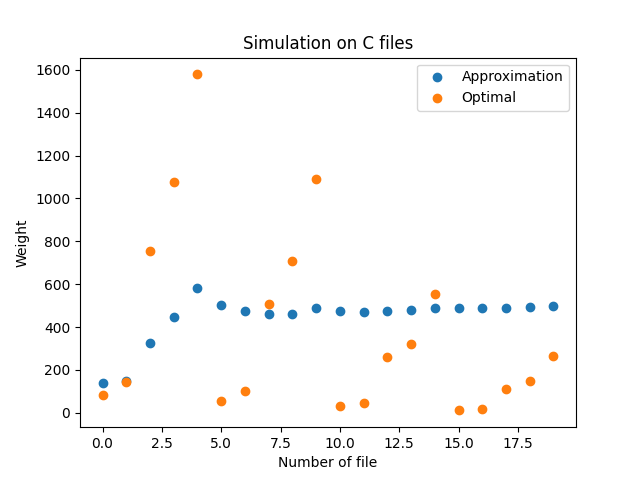
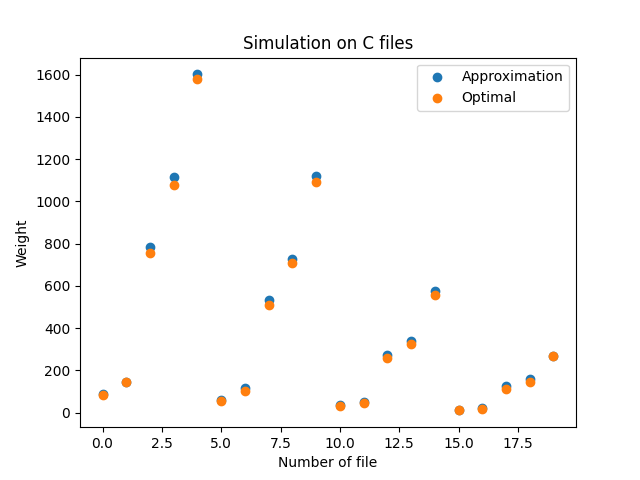
The bug of MySteinlibInstance resolved

diff --git a/TP1.py b/TP1.py
@@ -103,8 +103,9 @@ def approx_steiner(graph,terms):
 # class used to read a steinlib instance
 class MySteinlibInstance(SteinlibInstance):
 
-    my_graph = nx.Graph()
-    terms = []
+    def __init__(self):
+        self.my_graph = nx.Graph()
+        self.terms = []
 
     def terminals__t(self, line, converted_token):
         self.terms.append(converted_token[0])
@@ -171,7 +172,6 @@ if __name__ == "__main__":
     plt.savefig('plot_C.png')
     plt.show()
 
-    """
     with open(stein_file) as my_file:
         my_parser = SteinlibParser(my_file, my_class)
         my_parser.parse()
@@ -181,5 +181,3 @@ if __name__ == "__main__":
         sol=approx_steiner(graph,terms)
         print_graph(graph,terms,sol)
         print(eval_sol(graph,terms,sol))
-    """
-
